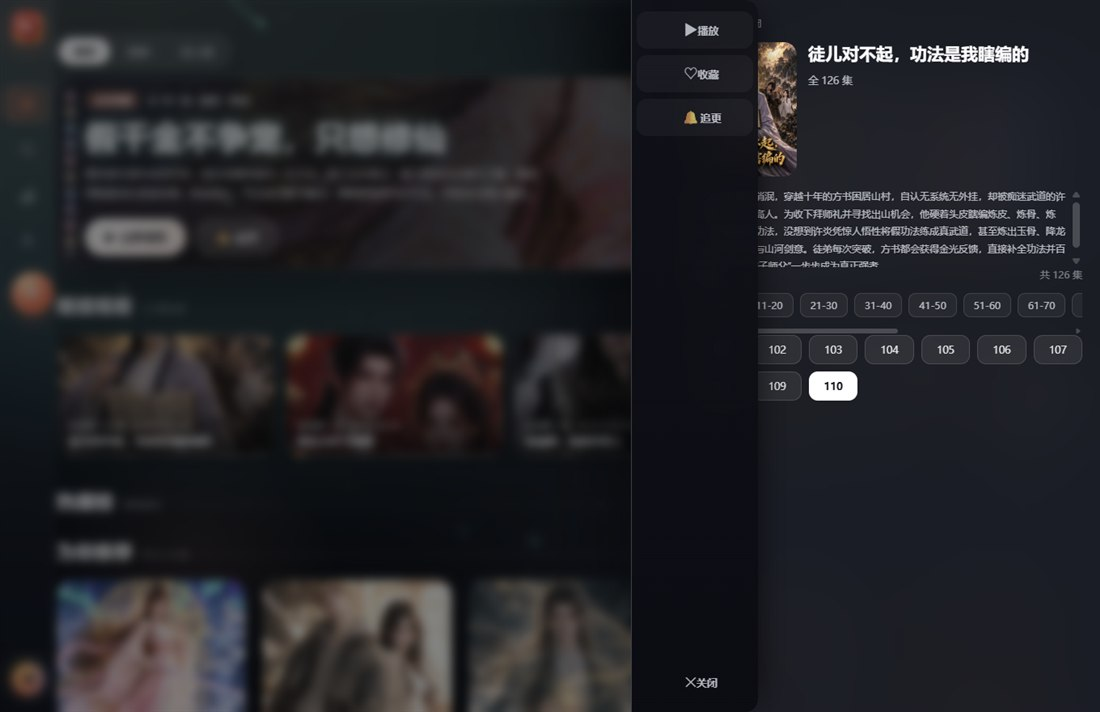
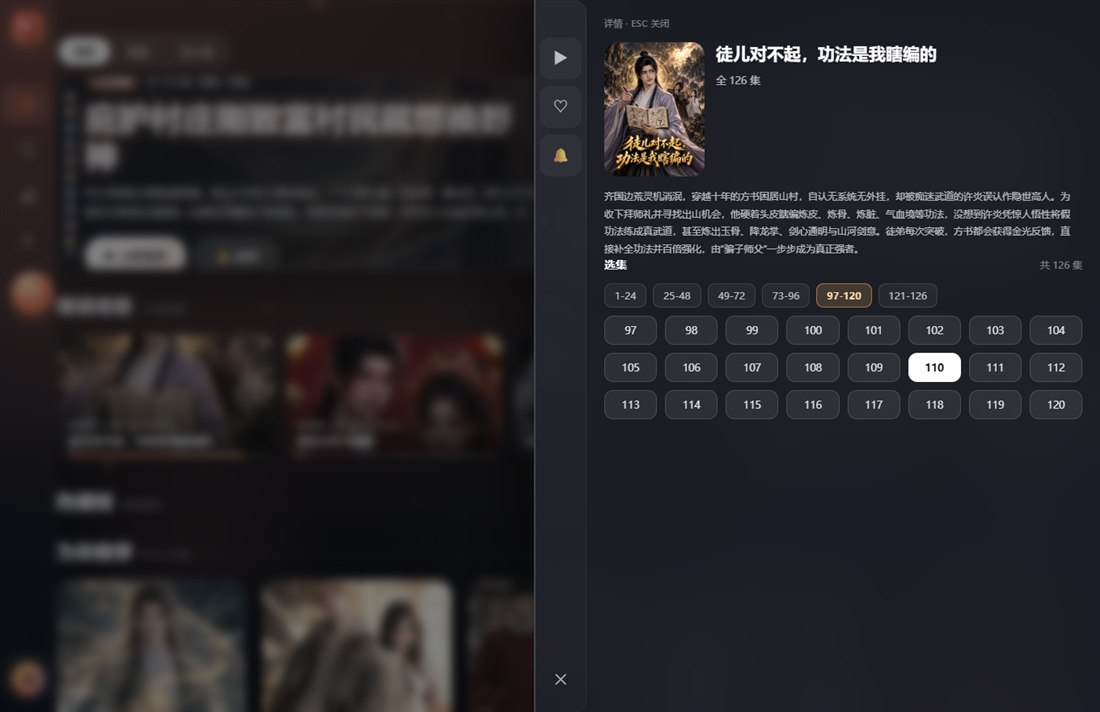
v1.022：详情页空间用起来，左栏不再盖内容
- 详情面板 580 -> 700，内容区多出 120px
- 选集一段 10 -> 24 集（app.js EP_SEG），8 列 3 行铺满右边缘，段按钮 6 段一行放下，横向滚动条消失
- 集数格 minmax(58) -> minmax(62)，gap 9 -> 10
- 左侧图标条 58 -> 64，按钮 46 -> 52、图标 17 -> 18，右缘加极淡分隔线，顶部留白 46 与标题齐平
- 取消 .srail 整条铺开，改成单按钮悬停浮出深色小标签，右侧内容永不被压
- 简介与选集段滚动条改细、圆角浅色
- docs：新增 release-1.022.md、时间线与预览图同步

diff --git a/ui/index.html b/ui/index.html
@@ -281,7 +281,7 @@
   .sbody img{width:124px;height:166px;object-fit:cover;border-radius:16px;flex:none;background:#222}
   .smeta h3{font-size:21px;font-weight:800;margin-bottom:8px;line-height:1.35}
   .smeta .sub{font-size:12.5px;color:var(--muted);line-height:1.8}
-  .sdesc{margin-top:14px;font-size:12px;line-height:1.8;color:var(--muted);max-height:112px;overflow:auto;padding-right:6px}
+  .sdesc{margin-top:14px;font-size:12px;line-height:1.8;color:var(--muted);max-height:112px;overflow:auto;padding-right:8px;scrollbar-width:thin;scrollbar-color:rgba(255,255,255,.22) transparent}
   .sacts{display:flex;gap:10px;margin:16px 0 20px;flex-wrap:wrap}
   /* 多季切换：同一部剧的第 1/2/3 季横排，点了直接换季 */
   .sseasons{display:flex;gap:8px;flex-wrap:wrap;margin:0 0 16px}
@@ -296,7 +296,7 @@
   .sseason.on b{color:#ffd7a3}
   .sseason.off{opacity:.45;cursor:default}
   .ephead{display:flex;justify-content:space-between;align-items:baseline;margin-bottom:12px}  .ephead span{font-size:12px;color:var(--muted-2)}
-  .eps{display:grid;grid-template-columns:repeat(auto-fill,minmax(58px,1fr));gap:9px}
+  .eps{display:grid;grid-template-columns:repeat(auto-fill,minmax(62px,1fr));gap:10px}
   .ep{height:36px;border-radius:11px;border:1px solid rgba(255,255,255,.14);background:rgba(255,255,255,.08);color:rgba(255,255,255,.86);
     font-size:12.5px;font-family:inherit;cursor:pointer;transition:all .15s var(--ease)}
   .ep:hover{background:rgba(255,255,255,.2);color:#fff}
@@ -304,8 +304,12 @@
   .ep.seen{color:#ffc98a;border-color:rgba(255,178,90,.42)}
   .ep:disabled{opacity:.35;cursor:not-allowed}
   /* 选集分段：10 集一段，长剧不再铺满一屏按钮 */
-  .epsegs{display:flex;gap:8px;overflow-x:auto;padding:2px 0 12px;scrollbar-width:thin}
+  .epsegs{display:flex;gap:8px;overflow-x:auto;padding:2px 0 10px;scrollbar-width:thin;scrollbar-color:rgba(255,255,255,.22) transparent}
   .epsegs.hide{display:none}
+  .sdesc::-webkit-scrollbar,.epsegs::-webkit-scrollbar,.smain::-webkit-scrollbar{width:8px;height:8px}
+  .sdesc::-webkit-scrollbar-thumb,.epsegs::-webkit-scrollbar-thumb,.smain::-webkit-scrollbar-thumb{background:rgba(255,255,255,.22);border-radius:99px}
+  .sdesc::-webkit-scrollbar-thumb:hover,.epsegs::-webkit-scrollbar-thumb:hover{background:rgba(255,255,255,.34)}
+  .sdesc::-webkit-scrollbar-track,.epsegs::-webkit-scrollbar-track{background:transparent}
   .epseg{flex:0 0 auto;height:30px;padding:0 12px;border-radius:9px;border:1px solid rgba(255,255,255,.12);
     background:rgba(255,255,255,.05);color:var(--muted);font-size:12px;font-family:inherit;cursor:pointer;transition:all .15s var(--ease)}
   .epseg:hover{background:rgba(255,255,255,.14);color:#fff}
@@ -714,32 +718,33 @@
   body.vtopshow .vtop{opacity:1!important;pointer-events:auto}
 
   /* 详情页：左侧图标栏，悬停铺开成抽屉，绝对定位不挤压右侧内容 */
-  .sheet{display:flex;padding:0;overflow:hidden;width:min(580px,94vw)}
-  .srail{position:absolute;left:0;top:0;bottom:0;z-index:2;width:58px;
-    display:flex;flex-direction:column;gap:8px;padding:14px 6px;overflow:hidden;
-    border-right:0;border-radius:0 16px 16px 0;
+  .sheet{display:flex;padding:0;overflow:hidden;width:min(700px,94vw)}
+  .srail{position:absolute;left:0;top:0;bottom:0;z-index:2;width:64px;
+    display:flex;flex-direction:column;gap:8px;padding:46px 6px 14px;overflow:visible;
+    border-radius:0 16px 16px 0;
     background:linear-gradient(180deg,rgba(255,255,255,.05),rgba(255,255,255,.012));
-    transition:width .32s cubic-bezier(.22,.82,.24,1),background .28s ease,box-shadow .32s ease}
-  .srail:hover{width:156px;background:linear-gradient(180deg,rgba(15,17,24,.945),rgba(10,12,18,.955));
-    backdrop-filter:blur(16px);box-shadow:16px 0 40px -20px rgba(0,0,0,.8)}
-  .srail .sr{width:46px;height:46px;min-height:46px;flex-direction:row;align-items:center;justify-content:center;
+    box-shadow:inset -1px 0 0 rgba(255,255,255,.06)}
+  .srail .sr{position:relative;width:52px;height:52px;min-height:52px;display:flex;flex-direction:row;align-items:center;justify-content:center;
     gap:0;padding:0;border:0;border-radius:13px;background:rgba(255,255,255,.045);color:var(--muted);
     font-family:inherit;cursor:pointer;
     transition:width .32s cubic-bezier(.22,.82,.24,1),background .2s ease,color .2s ease,
       padding .32s cubic-bezier(.22,.82,.24,1),gap .32s ease,transform .2s var(--ease)}
-  .srail .sr i{font-style:normal;font-size:17px;line-height:1}
-  .srail .sr b{font-size:13px;width:auto;word-break:normal;white-space:nowrap;line-height:1;
-    font-weight:600;text-align:left;opacity:0;transform:translateX(-5px);
-    transition:opacity .2s ease .04s,transform .3s cubic-bezier(.22,.82,.24,1)}
-  .srail:hover .sr{width:144px;justify-content:flex-start;gap:12px;padding-left:16px}
-  .srail:hover .sr b{opacity:1;transform:none}
+  .srail .sr i{font-style:normal;font-size:18px;line-height:1}
+  .srail .sr b{position:absolute;left:58px;top:50%;z-index:4;width:auto;line-height:1;text-align:left;
+    font-size:12.5px;font-weight:600;white-space:nowrap;padding:7px 11px;border-radius:9px;color:#fff;
+    background:rgba(11,13,19,.97);box-shadow:0 8px 22px -12px rgba(0,0,0,.92),inset 0 0 0 1px rgba(255,255,255,.1);
+    opacity:0;pointer-events:none;transform:translate(-6px,-50%);
+    transition:opacity .18s ease,transform .22s cubic-bezier(.22,.82,.24,1)}
+  .srail .sr:hover b{opacity:1;transform:translate(0,-50%)}
+  
+  
   .srail .sr:hover{background:rgba(255,255,255,.14);color:#fff;transform:translateY(-1px)}
   .srail .sr.p{background:linear-gradient(180deg,rgba(255,122,85,.34),rgba(255,122,85,.14));
     color:#fff;box-shadow:0 10px 24px -14px rgba(255,122,85,.9)}
   .srail .sr.p i{color:#ffd8cb}
   .srail .sr.x{background:transparent}
   .srail .sr-sp{flex:1;min-height:8px}
-  .smain{flex:1;min-width:0;margin-left:58px;overflow-y:auto;padding:22px;scrollbar-width:thin;scrollbar-color:rgba(255,255,255,.2) transparent}
+  .smain{flex:1;min-width:0;margin-left:64px;overflow-y:auto;padding:22px;scrollbar-width:thin;scrollbar-color:rgba(255,255,255,.2) transparent}
   .smain::-webkit-scrollbar{width:8px}
   .smain::-webkit-scrollbar-thumb{background:rgba(255,255,255,.2);border-radius:99px}
 

diff --git a/docs/index.html b/docs/index.html
@@ -126,7 +126,7 @@
   <div class="wrap in">
     <div class="logo"><svg viewBox="0 0 24 24" fill="none" stroke="#2a1105" stroke-width="2.4" stroke-linecap="round" stroke-linejoin="round"><path d="M9 18V6l11-2v12"/><circle cx="6" cy="18" r="3"/><circle cx="17" cy="16" r="3"/></svg></div>
     <div class="brand">红果短剧<small>桌面皮肤版 · 非官方界面项目</small></div>
-    <span class="tag-v">v1.021</span>
+    <span class="tag-v">v1.022</span>
     <nav class="nav">
       <a href="#shots">截图</a>
       <a href="#feat">能干什么</a>
@@ -217,6 +217,7 @@
     <div class="h2">最近的版本</div>
     <div class="sub">每个版本的细节都写在仓库的 <a href="https://github.com/guhang42-jpg/hongguo-desktop-skin/tree/main/docs" style="color:#ffb057">docs/</a> 里。</div>
     <div class="timeline">
+      <div class="item"><b>v1.022</b><time>2026-11-23</time><p>详情页把空间用起来。面板 580→700，选集一段 10→24 集、每行 8 个铺满右边缘，段按钮一行放得下、横向滚动条消失；左侧图标条 58→64 并取消整条铺开，改成单个按钮悬停浮出小标签，封面与正文不再被压。</p></div>
       <div class="item"><b>v1.021</b><time>2026-11-23</time><p>播放页和详情页那两条竖栏也收成图标。播放页 96→58，折叠态只剩一枚返回钮，鼠标移上去才铺开 214 露出剧名与集数；详情页 80→58，四个 46×46 图标格，悬停铺到 156 才出文字，并且改成绝对定位浮在面板上，展开时不挤压右侧内容。</p></div>
       <div class="item"><b>v1.020</b><time>2026-11-23</time><p>把那条抽屉磨细。收起方向加了 100ms 延迟，鼠标顺着边缘划过去不再弹一下；展开态底色变实，背后内容不再透过字；小窗形态禁展开；<code>backdrop-filter</code> 退出过渡，展开那 340ms 少掉一轮逐帧重绘；图标 hover 从上浮的位移代替放大。</p></div>
       <div class="item"><b>v1.019</b><time>2026-11-23</time><p>左边那条栏收起来了。104px 的竖排文字换成 68px 的图标窄条，只留 logo、四个线性图标、小果那颗球和头像；鼠标移进去自己铺开成 196px 的玻璃抽屉，文字淡着浮上来，移开自己收回。抽屉浮在内容上，不推挤主内容。</p></div>

diff --git a/ui/app.js b/ui/app.js
@@ -577,8 +577,8 @@
   var sheet = $("#sheet"), mask = $("#mask");
   function closeDetail() { mask.classList.remove("on"); sheet.classList.remove("on"); }
 
-  /* 选集按每 10 集一段折叠：96 集的剧不再铺 96 个按钮 */
-  var EP_SEG = 10;
+  /* 选集按每 24 集一段折叠：面板加宽后一屏放得下三行，不再只给两行留一大片空 */
+  var EP_SEG = 24;
   function renderEpisodeGrid(total, seg) {
     S.epTotal = total;
     var segs = Math.max(1, Math.ceil(total / EP_SEG));

diff --git a/README.md b/README.md
@@ -3,19 +3,19 @@
 > 官方客户端一个字没动，功能全保留，只是把那张"呆板的脸"换了。
 > 纯前端换皮 + 一层很薄的 C# 外壳，双击 exe 就能用，不需要 Docker、不需要另起服务。
 
-**当前版本：v1.021**（2026-11-23）　![version](https://img.shields.io/badge/version-v1.021-ff7a45?style=flat-square)
+**当前版本：v1.022**（2026-11-23）　![version](https://img.shields.io/badge/version-v1.022-ff7a45?style=flat-square)
 
 > **项目主页**：https://guhang42-jpg.github.io/hongguo-desktop-skin/　（截图、能力、版本时间线都在这页）
 
 ## 下载
 
-- 最新版：`v1.021` → https://github.com/guhang42-jpg/hongguo-desktop-skin/releases/tag/v1.021
-- **轻量版**（不含语义模型，6.95 MB）：`https://github.com/guhang42-jpg/hongguo-desktop-skin/releases/download/v1.021/hongguo-skin-1.021-win64.zip`
[1 lines of base64/hex data omitted]
-- **语义版**（含本机模型，25.4 MB）：`https://github.com/guhang42-jpg/hongguo-desktop-skin/releases/download/v1.021/hongguo-skin-1.021-win64-ai.zip`
[1 lines of base64/hex data omitted]
+- 最新版：`v1.022` → https://github.com/guhang42-jpg/hongguo-desktop-skin/releases/tag/v1.022
+- **轻量版**（不含语义模型，6.95 MB）：`https://github.com/guhang42-jpg/hongguo-desktop-skin/releases/download/v1.022/hongguo-skin-1.022-win64.zip`
[1 lines of base64/hex data omitted]
+- **语义版**（含本机模型，25.4 MB）：`https://github.com/guhang42-jpg/hongguo-desktop-skin/releases/download/v1.022/hongguo-skin-1.022-win64-ai.zip`
[1 lines of base64/hex data omitted]
   - 小果能认得从没说过的说法、能听懂"开局很惨后来翻身的"这种没剧名的话；不装模型也能用，只是换个说法就不一定接得住
-- 上一版（v1.020）：https://github.com/guhang42-jpg/hongguo-desktop-skin/releases/tag/v1.020
+- 上一版（v1.021）：https://github.com/guhang42-jpg/hongguo-desktop-skin/releases/tag/v1.021
 
 > **一键摸鱼**：任意时候按 `Ctrl+Shift+M`，窗口当场变成一张 Excel 财务台账（标题、任务栏标题一并改掉，剧也顺手暂停静音）；再按一次原样回来。顶栏那颗 ☕ 也是同一个开关。
 
@@ -173,6 +173,16 @@ ui/ai/                           ← 只有语义版有：24 MB 模型 + 11.8 MB
 - 若权利人认为本仓库或发布物侵犯其权益，请通过 Issue 或邮件联系我，我会在收到通知后 **24 小时内删除仓库与全部发布物**（侵权立删，不需要解释）。
 
 ## 更新日志
+
+### v1.022（2026-11-23）
+
+- **详情面板 580 → 700**：内容区实际多出 120px，选集不再挤在左边一小块
+- **选集一段 10 → 24 集**（`EP_SEG`）：8 列 × 3 行铺满右边缘；段按钮变成 `1-24 / 25-48 / …`，126 集只有 6 段，一行放得下，横向滚动条不再出现
+- 集数格 `minmax(58px,1fr)` → `minmax(62px,1fr)`，gap 9 → 10
+- **左侧图标条 58 → 64**，按钮 46 → 52、图标 17 → 18，右边缘加极淡分隔线；顶部留白 14 → 46 与「详情 · ESC 关闭」齐平
+- **取消整条铺开**：`.srail` 固定 64，改成单按钮悬停时右侧浮出深色小标签（播放/收藏/追更/关闭），右侧内容永不被压、也不重排
+- 简介与选集段滚动条换成 `scrollbar-width:thin` + 8px 圆角浅色拇指，替掉 Windows 默认灰槽
+- 真机三张验证：折叠态 8 列铺满、悬停播放/收藏各浮标签、封面与正文零遮挡
 
 ### v1.021（2026-11-23）
 

diff --git a/docs/release-1.022.md b/docs/release-1.022.md
@@ -1,0 +1,45 @@
+# v1.022 —— 详情页右边别再空一块，左边别再盖内容
+
+一句话：面板加宽到 700，选集一段从 10 集扩到 24 集、每行 8 个铺满；左侧图标条不再整条铺开，改成单个按钮悬停浮出标签 —— 展开不再压住封面和正文。
+
+## 你圈出来的两个问题
+
+**右边太挤、明明有空间**：原来一段只渲染 10 集，面板 580 宽里每行放 7 个，剩下 3 个另起一行，右边空出大半条；下面还有一大片空白，因为选集区只占两行高。
+
+**左边不协调**：上一版把整条图标栏做成了"悬停铺开 156px"的抽屉，一铺开就盖住内容左 100px —— 封面被切一半、简介每行首字被吃掉，看着就是别扭。
+
+## 改了什么
+
+- **面板 580 → 700**（`min(700px,94vw)`），内容区实际宽了 120px
+- **选集每段 10 → 24 集**（`EP_SEG`，只在要看的那段内分页），面板宽下正好 8 列 × 3 行，铺满右边缘，不再留白
+- 段按钮随之变成 `1-24 / 25-48 / …`，126 集只有 6 段，一行放得下，**中间那条难看的横向滚动条直接消失**
+- 集数格 `minmax(58px,1fr)` → `minmax(62px,1fr)`，间距 9 → 10，8 个一格不挤
+- **左侧图标条 58 → 64**，按钮 46 → 52、图标 17 → 18，右边缘加 `inset -1px 0 0` 的极淡分隔线，与内容区分开
+- 图标条顶部留白 14 → 46，第一枚图标与「详情 · ESC 关闭」那一行齐平，不再顶在面板最上沿
+- **取消整条铺开**：`.srail` 固定 64 不再变宽，改成单按钮悬停时在右侧浮出一个深色小标签（播放 / 收藏 / 追更 / 关闭）。这样右侧内容**永远不被盖**，也不会因为铺开而重新换行
+- 简介区与选集段滚动条：`scrollbar-width:thin` + `::-webkit-scrollbar` 8px 圆角浅色，替掉 Windows 默认那条带三角箭头的灰槽
+
+## 验证
+
+真机 `PrintWindow` 三张（1360×880，`--jump` 直达第 110 集）：
+
+1. 折叠态：64px 图标列，选集 8 列 3 行铺满，简介 4 行完整无半截字
+2. 悬停「播放」：右侧浮出标签，封面与正文零遮挡
+3. 悬停「收藏」：同上，标签位置随按钮走
+
+## 包里有什么变化
+
+- `ui/index.html` 94,190 B
+- `ui/app.js` 170,566 B（`EP_SEG = 24`，`node --check` 通过）
+- exe、core、`ui\ai` 无改动
+
+| 包 | 大小 | SHA256 |
+|---|---|---|
[2 lines of base64/hex data omitted]
+
+## 还留着的边界
+
+- 悬停标签是浮层，短标签仍会压住封面左上角一小块（宽约 40px，高 28px），比整条 100px 遮挡好得多。
+- 选集改成 24 集一段后，`epIndex` 定位按 `floor(ep/24)` 算段，跳集时段的划分与旧版不同（这是预期行为）。
+- 播放页那条 `.vtop` 仍是悬停铺开 214px 的形态，本次没动；如果那边也觉得盖画面，可以同样改成浮标签。
